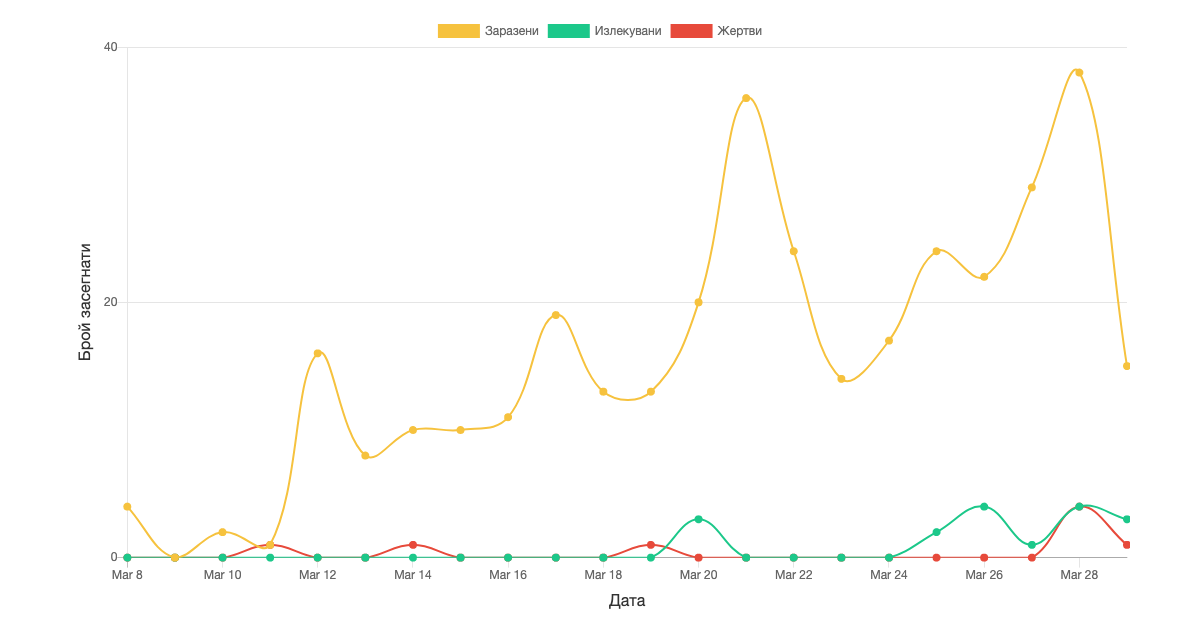
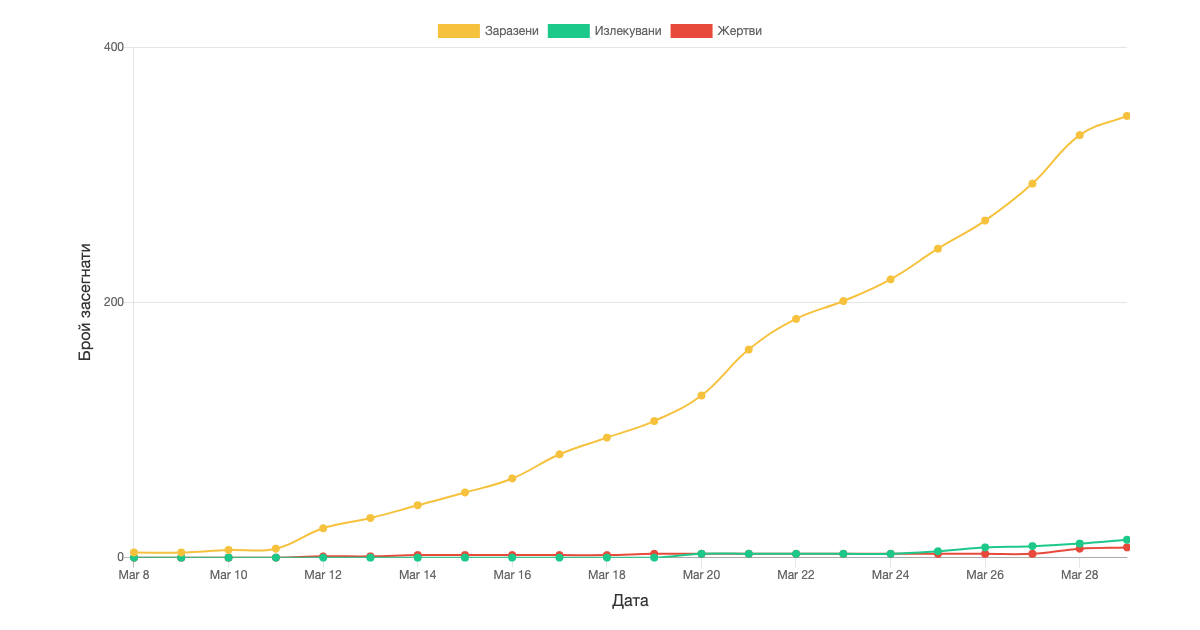
Added dynamic data fetching.

diff --git a/pages/index.js b/pages/index.js
@@ -4,23 +4,30 @@ import {
   Row,
   Col,
   Card,
+  Badge,
 } from 'react-bootstrap';
+import fetch from 'isomorphic-unfetch';
+import Moment from 'react-moment';
 import BaseLayout from '../components/BaseLayout';
 import CasesOverview from '../components/CasesOverview';
 import CasesLineChart from '../components/CasesLineChart';
+import CasesBarChart from '../components/CasesBarChart';
 
-import TotalsDataset from '../db/TotalsDataset.json';
-import DateCasesDataset from '../db/DateCasesDataset.json';
-
-const Index = () => {
+const Index = ({ totalsData, dateCasesData, dateDiffCasesData }) => {
   const prepareChartData = (dataset) => Object.fromEntries(
     Object.entries(dataset).map((entry) => [entry[0], entry[1].cases]),
   );
 
   const lineChartData = [
-    { name: 'Заразени', data: prepareChartData(DateCasesDataset.infected) },
-    { name: 'Излекувани', data: prepareChartData(DateCasesDataset.cured) },
-    { name: 'Жертви', data: prepareChartData(DateCasesDataset.fatal) },
+    { name: 'Заразени', data: prepareChartData(dateCasesData.infected) },
+    { name: 'Излекувани', data: prepareChartData(dateCasesData.cured) },
+    { name: 'Жертви', data: prepareChartData(dateCasesData.fatal) },
+  ];
+
+  const barChartData = [
+    { name: 'Заразени', data: prepareChartData(dateDiffCasesData.infected) },
+    { name: 'Излекувани', data: prepareChartData(dateDiffCasesData.cured) },
+    { name: 'Жертви', data: prepareChartData(dateDiffCasesData.fatal) },
   ];
 
   return (
@@ -41,10 +48,16 @@ const Index = () => {
         <div className="d-sm-flex align-items-center justify-content-between my-4">
           <h1 className="h3 mb-0 text-gray-800">Начало</h1>
         </div>
+        <Badge variant="info">
+          Последна актуализация:&nbsp;
+          <Moment format="DD.MM.YYYY г. в HH:mm ч.">
+            {totalsData.timestamp}
+          </Moment>
+        </Badge>
         <CasesOverview
-          infected={TotalsDataset.infected}
-          cured={TotalsDataset.cured}
-          fatal={TotalsDataset.fatal}
+          infected={totalsData.infected}
+          cured={totalsData.cured}
+          fatal={totalsData.fatal}
         />
         <Row>
           <Col>
@@ -58,9 +71,38 @@ const Index = () => {
             </Card>
           </Col>
         </Row>
+        <Row>
+          <Col>
+            <Card className="shadow mb-4">
+              <Card.Header className="py-3 d-flex flex-row align-items-center justify-content-between">
+                <h6 className="m-0 font-weight-bold text-primary">Статистика по дни</h6>
+              </Card.Header>
+              <Card.Body>
+                <CasesBarChart data={barChartData} />
+              </Card.Body>
+            </Card>
+          </Col>
+        </Row>
       </Container>
     </BaseLayout>
   );
+};
+
+Index.getInitialProps = async function () {
+  const totalsDataset = await fetch('https://raw.githubusercontent.com/COVID-19-Bulgaria/covid-database/master/Bulgaria/TotalsDataset.json');
+  const totalsData = await totalsDataset.json();
+
+  const dateCasesDataset = await fetch('https://raw.githubusercontent.com/COVID-19-Bulgaria/covid-database/master/Bulgaria/DateCasesDataset.json');
+  const dateCasesData = await dateCasesDataset.json();
+
+  const dateDiffCasesDataset = await fetch('https://raw.githubusercontent.com/COVID-19-Bulgaria/covid-database/master/Bulgaria/DateDiffCasesDataset.json');
+  const dateDiffCasesData = await dateDiffCasesDataset.json();
+
+  return {
+    totalsData,
+    dateCasesData,
+    dateDiffCasesData,
+  };
 };
 
 export default Index;

diff --git a/components/OpenGraph/CasesLineChartImage.js b/components/OpenGraph/CasesLineChartImage.js
@@ -1,17 +1,16 @@
 import React from 'react';
 import { Row, Col } from 'react-bootstrap';
 import CasesLineChart from '../CasesLineChart';
-import DateCasesDataset from '../../db/DateCasesDataset.json';
 
-const CasesLineChartImage = () => {
+const CasesLineChartImage = ({ dateCasesData }) => {
   const prepareChartData = (dataset) => Object.fromEntries(
     Object.entries(dataset).map((entry) => [entry[0], entry[1].cases]),
   );
 
   const lineChartData = [
-    { name: 'Заразени', data: prepareChartData(DateCasesDataset.infected) },
-    { name: 'Излекувани', data: prepareChartData(DateCasesDataset.cured) },
-    { name: 'Жертви', data: prepareChartData(DateCasesDataset.fatal) },
+    { name: 'Заразени', data: prepareChartData(dateCasesData.infected) },
+    { name: 'Излекувани', data: prepareChartData(dateCasesData.cured) },
+    { name: 'Жертви', data: prepareChartData(dateCasesData.fatal) },
   ];
 
   return (

diff --git a/pages/open-graph-linechart.js b/pages/open-graph-linechart.js
@@ -1,10 +1,20 @@
+import fetch from 'isomorphic-unfetch';
 import ErrorPage from 'next/error';
 import CasesLineChartImage from '../components/OpenGraph/CasesLineChartImage';
 
-const OpenGraphLineChart = () => {
+const OpenGraphLineChart = ({ dateCasesData }) => {
   const shouldRender = process.env.BUILD_ID === 'development';
 
-  return shouldRender ? <CasesLineChartImage /> : <ErrorPage statusCode={404} />;
+  return shouldRender ? <CasesLineChartImage dateCasesData={dateCasesData} /> : <ErrorPage statusCode={404} />;
+};
+
+OpenGraphLineChart.getInitialProps = async function () {
+  const dateCasesDataset = await fetch('https://raw.githubusercontent.com/COVID-19-Bulgaria/covid-database/master/Bulgaria/DateCasesDataset.json');
+  const dateCasesData = await dateCasesDataset.json();
+
+  return {
+    dateCasesData,
+  };
 };
 
 export default OpenGraphLineChart;

diff --git a/components/CasesBarChart.js b/components/CasesBarChart.js
@@ -1,0 +1,25 @@
+import React from 'react';
+import PropTypes from 'prop-types';
+import { ColumnChart } from 'react-chartkick';
+import 'chart.js';
+
+const CasesBarChart = (props) => {
+  const { data, ...rest } = props;
+
+  return (
+    <ColumnChart
+      data={data}
+      xtitle="Дата"
+      ytitle="Брой засегнати"
+      colors={['#f6c23e', '#1cc88a', '#e74a3b']}
+      download={{ background: '#ffffff', filename: 'COVID-19-Bulgaria_CasesBarChart' }}
+      {...rest}
+    />
+  );
+};
+
+CasesBarChart.propTypes = {
+  data: PropTypes.array.isRequired,
+};
+
+export default CasesBarChart;
